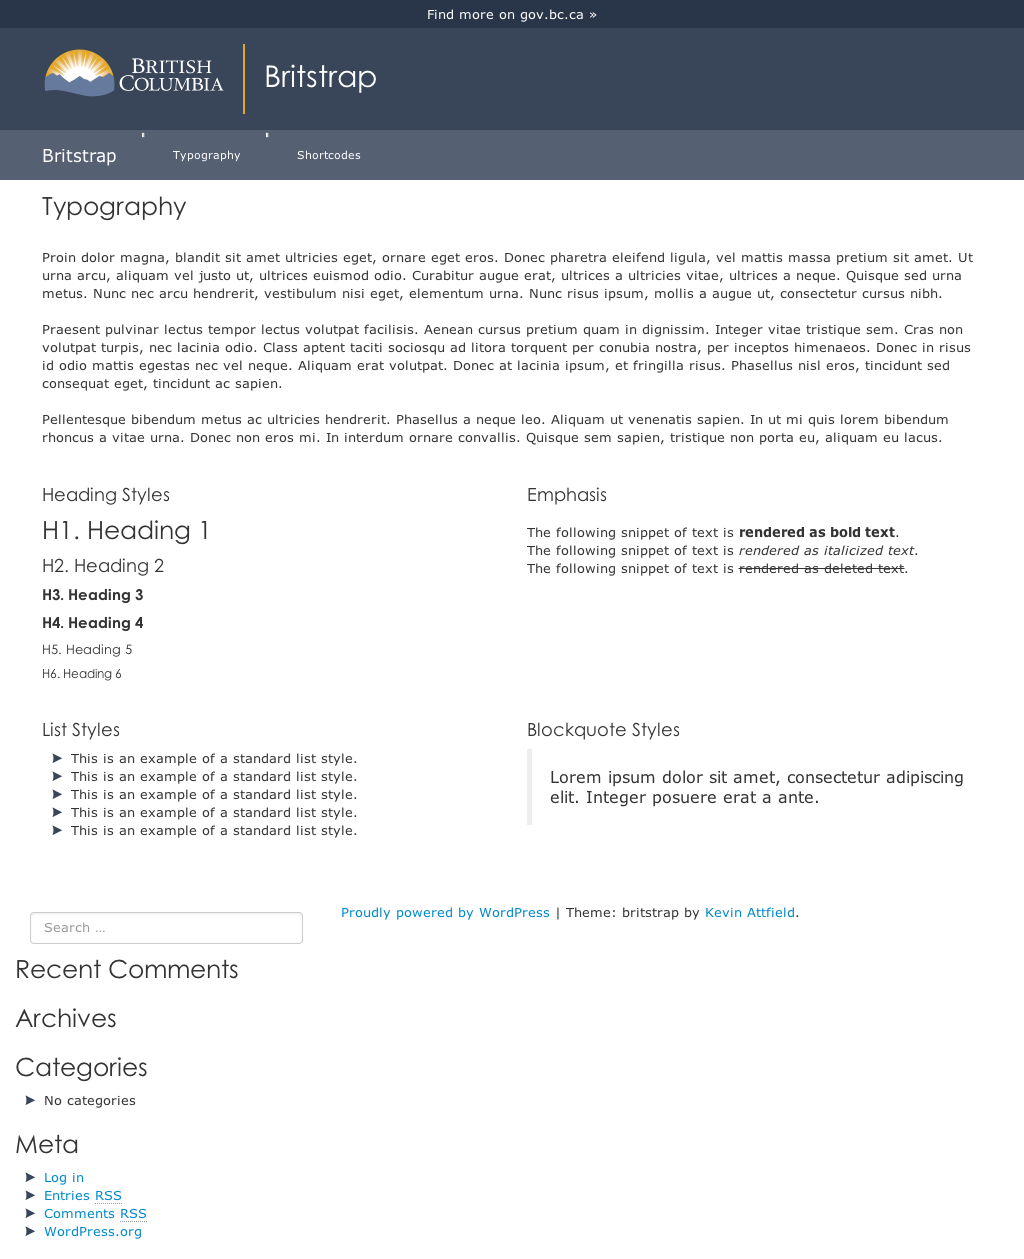
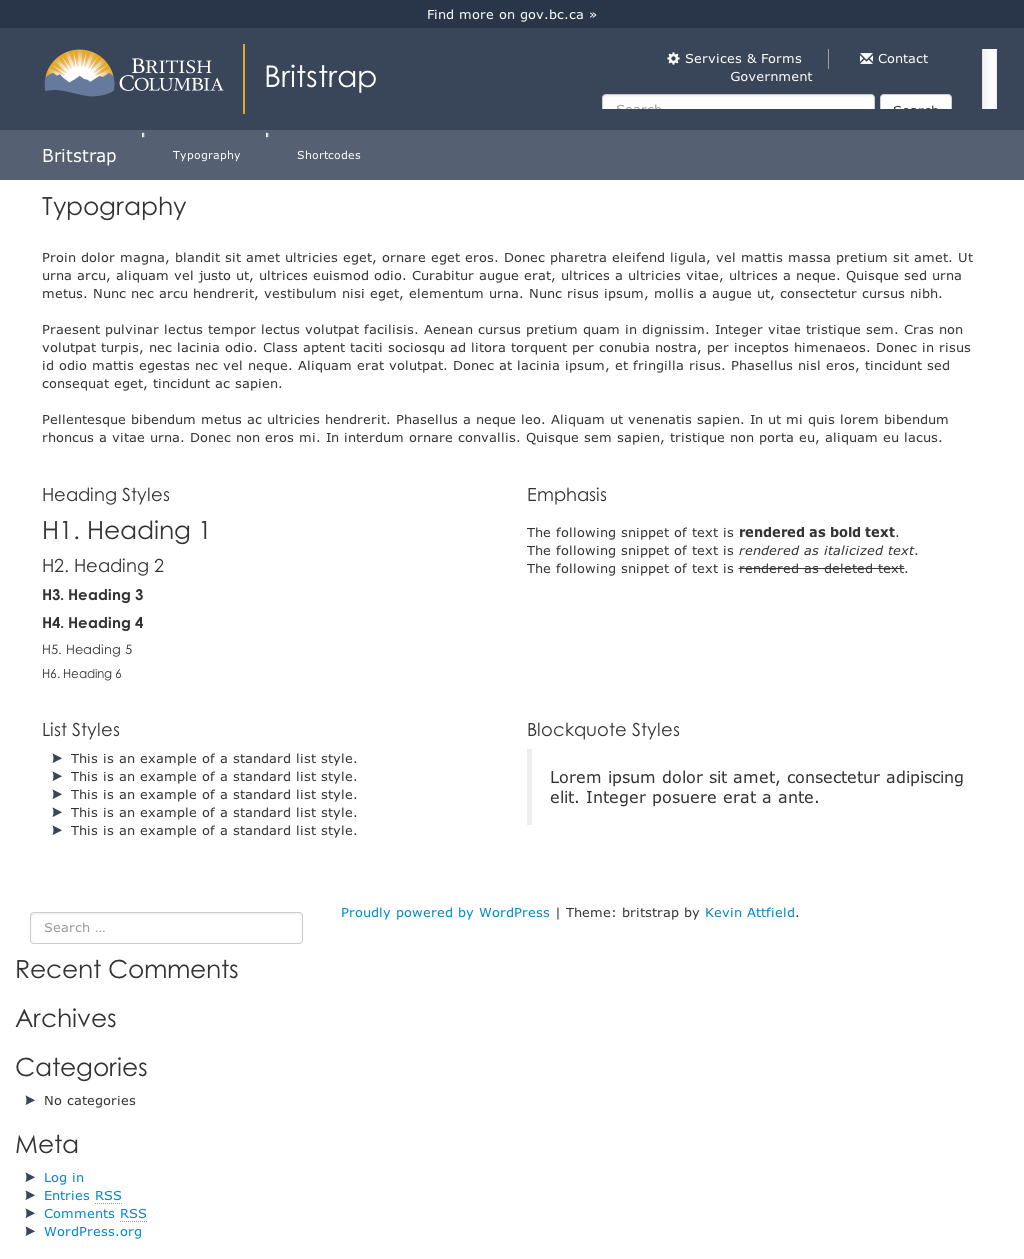
fixed horizontal crop

Changed region(s): [[0.5938, 0.031, 1.0, 0.0929]]

diff --git a/Gruntfile.js b/Gruntfile.js
@@ -132,25 +132,21 @@ module.exports = function(grunt) {
     var done = this.async();
     var options = this.options();
 
+    gm.prototype.fitHorizontal = function(start, end) {
+      grunt.log.writeln('Resizing to fit horizontally, then cropping top.');
+
+      return this.resize(end.width)
+        .crop(end.width, end.height, 0, 0);
+    }
     gm.prototype.fitVertical = function(start, end) {
       var width = start.width * (end.height/start.height);
       var offsetLeft = (width - end.width)/2;
 
-      grunt.log.writeln('Resizing to fit vertically, then cropping.');
+      grunt.log.writeln('Resizing to fit vertically, then cropping centered.');
 
       return this.resize(null, end.height)
         .crop(end.width, end.height, offsetLeft, 0);
     }
-    gm.prototype.fitHorizontal = function(start, end) {
-      var height = start.height * (end.width/start.width);
-      var offsetTop = (height - end.height)/2;
-
-      grunt.log.writeln('Resizing to fit horizontally, then cropping.');
-
-      return this.resize(end.width)
-        .crop(end.width, end.height, 0, offsetTop);
-    }
-    
 
     grunt.file.delete(options.to)
     var image = gm(options.from)
@@ -161,10 +157,7 @@ module.exports = function(grunt) {
         }else {
           image.fitHorizontal(size, options);
         }
-        image.write(options.to, function (err) {
-          if(!err)
-            done();
-        });
+        image.write(options.to, done);
       });
   });
 

diff --git a/stylesheets/ui/menu.less b/stylesheets/ui/menu.less
@@ -123,11 +123,16 @@ nav.affix {
   margin-bottom: 0;
   vertical-align: middle;
 }
+
+
 @media (min-width: @screen-sm) {
   .site-services {
     height: 60px;
     margin: auto;
     position: absolute;
     top: 0; bottom: 0; right: 0;
+  }
+  .search-collapse.collapse {
+    display: block !important;
   }
 }

diff --git a/style.css b/style.css
@@ -6050,6 +6050,9 @@ nav.affix {
     bottom: 0;
     right: 0;
   }
+  .search-collapse.collapse {
+    display: block !important;
+  }
 }
 
 .site-main [class*="navigation"] {

diff --git a/header.php b/header.php
@@ -61,7 +61,6 @@
 
 			<nav id="site-navigation" class="main-navigation navbar navbar-default" role="navigation">
 				<div class="container">
-					<!-- Brand and toggle get grouped for better mobile display -->
 					<div class="navbar-header">
 						<button type="button" class="navbar-toggle" data-toggle="collapse" data-target=".navbar-ex1-collapse">
 							<span class="sr-only">Toggle navigation</span>
@@ -74,17 +73,16 @@
 						<a class="navbar-brand" href="#"><?php echo esc_attr( get_bloginfo( 'name', 'display' ) ); ?></a>
 					</div>
 
-					<!-- Collect the nav links, forms, and other content for toggling -->
 					<div class="collapse navbar-collapse navbar-ex1-collapse">
 						<?php wp_nav_menu( array(
 							'theme_location'  => 'primary',
 							'menu_class'      => 'nav navbar-nav'
 						) ); ?>
-					</div><!-- /.navbar-collapse -->
+					</div>
 				</div>
 			</nav>
 			<div class="main-navigation-placeholder"></div>
 
-		</header><!-- #masthead -->
+		</header>
 
 		<div id="content" class="site-content">
